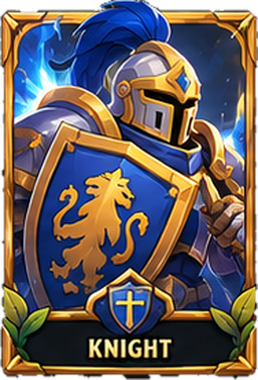
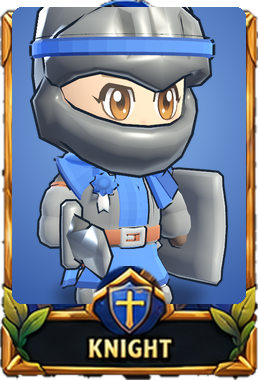
claude-faisal/crowns-visual2: class cards and portraits from the real chibi unit models
Faisal 2026-11-04 (via the coordinator): "Yes, match chibi".
- tools/render_card_portraits.gd renders every team x class unit model
  (CharacterModel, 3/4 bust, key + rim light, transparent).
- tools/compose_card_portraits.py lays each bust into its existing card:
  same size, gilt border, name banner, leaves and class emblem, over a
  soft team-coloured backdrop; make_card_blur.py re-run for the blurs.
- The painted originals are archived in docs/archive/cards-painted-20261104/.
  (The elf Knight card had shown a Human lion knight.)

Agent: claude-faisal/crowns-visual2

diff --git a/tools/compose_card_portraits.py b/tools/compose_card_portraits.py
@@ -1,0 +1,68 @@
+"""Class cards in the chibi style of the in-game units (Faisal 2026-11-04:
+"Yes, match chibi"). Lays each real-model bust (tools/render_card_portraits.gd
+-> build/card_busts/) into the existing card: same size, same gilt border,
+name banner and leaves (kept from the card), over a soft painted team
+backdrop. Then re-run tools/make_card_blur.py.
+
+    python tools/compose_card_portraits.py
+Agent: claude-faisal/crowns-visual2
+"""
+import glob
+import os
+from PIL import Image, ImageDraw, ImageFilter
+
+TEAM = {"elf": ((40, 120, 70), (150, 215, 140)), "human": ((35, 70, 150), (140, 185, 240))}
+
+
+def backdrop(w, h, dark, light):
+    bg = Image.new("RGB", (w, h), dark)
+    d = ImageDraw.Draw(bg)
+    cx, cy = w * 0.5, h * 0.38
+    steps = 40
+    for i in range(steps):
+        t = i / (steps - 1)
+        r = max(w, h) * (1.0 - t) * 0.9
+        col = tuple(int(dark[k] + (light[k] - dark[k]) * t) for k in range(3))
+        d.ellipse((cx - r, cy - r, cx + r, cy + r), fill=col)
+    return bg.filter(ImageFilter.GaussianBlur(6))
+
+
+for path in sorted(glob.glob("assets/ui/cards/*.png")):
+    name = os.path.basename(path)[:-4]
+    if name.endswith("_blur") or name.startswith(("crest_", "logo_")):
+        continue
+    bust_path = os.path.join("build", "card_busts", name + ".png")
+    if not os.path.exists(bust_path):
+        continue
+    card = Image.open(path).convert("RGBA")
+    w, h = card.size
+    inset = max(10, round(w * 0.045))
+    box = (inset, 7, w - inset, round(h * 0.80))
+    bw, bh = box[2] - box[0], box[3] - box[1]
+    dark, light = TEAM[name.split("_")[0]]
+    inner = backdrop(bw, bh, dark, light).convert("RGBA")
+    bust = Image.open(bust_path).convert("RGBA")
+    bust = bust.crop(bust.getbbox())
+    s = min(bw * 1.0 / bust.width, bh * 1.08 / bust.height)
+    bust = bust.resize((round(bust.width * s), round(bust.height * s)), Image.LANCZOS)
+    # A soft contact shadow, then the bust standing on the banner line.
+    sh = Image.new("RGBA", inner.size, (0, 0, 0, 0))
+    ImageDraw.Draw(sh).ellipse((bw * 0.18, bh - 26, bw * 0.82, bh + 6), fill=(0, 0, 0, 110))
+    inner.alpha_composite(sh.filter(ImageFilter.GaussianBlur(6)))
+    inner.alpha_composite(bust, ((bw - bust.width) // 2, bh - bust.height + round(bh * 0.04)))
+    out = card.copy()
+    # Rounded inner corners so the gilt frame still overlaps the art.
+    mask = Image.new("L", inner.size, 0)
+    ImageDraw.Draw(mask).rounded_rectangle((0, 0, bw - 1, bh - 1), radius=10, fill=255)
+    out.paste(inner, box[:2], mask)
+    # The name banner, its emblem and the leaves from the original card.
+    keep_y = round(h * 0.80)
+    out.alpha_composite(card.crop((0, keep_y, w, h)), (0, keep_y))
+    # The class emblem rises above the banner: keep it, cut to its shield.
+    ex0, ex1, ey0 = round(w * 0.35), round(w * 0.65), round(h * 0.70)
+    em = card.crop((ex0, ey0, ex1, keep_y + 4))
+    emask = Image.new("L", em.size, 0)
+    ImageDraw.Draw(emask).ellipse((2, 0, em.width - 3, em.height * 2), fill=255)
+    out.paste(em, (ex0, ey0), emask.filter(ImageFilter.GaussianBlur(1)))
+    out.save(path)
+    print("card", name, (w, h))
